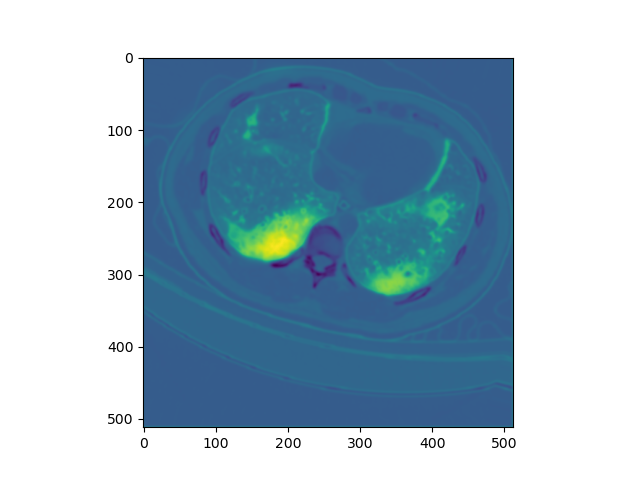
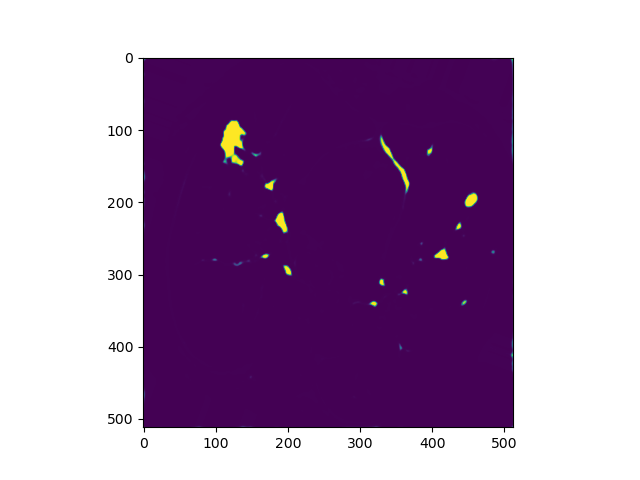
plot preds

diff --git a/main.py b/main.py
@@ -7,6 +7,7 @@ from pytorch_lightning import Trainer
 from pytorch_lightning.callbacks import LearningRateMonitor, ModelCheckpoint
 
 import matplotlib.pyplot as plt
+import torch.nn as nn
 
 if __name__ == "__main__":
     lr_monitor = LearningRateMonitor(logging_interval='epoch')
@@ -18,7 +19,7 @@ if __name__ == "__main__":
 
     trainer = Trainer(
         accelerator="gpu",
-        max_epochs=1,
+        max_epochs=10,
         callbacks=[lr_monitor, checkpoint_callback],
         logger=logger,
         log_every_n_steps=1
@@ -29,7 +30,14 @@ if __name__ == "__main__":
         datamodule=Images(batch_size=2)
     )
 
-    predictions = trainer.predict(dataloaders=Images(batch_size=1))
+    samples, predictions = trainer.predict(dataloaders=Images(batch_size=1), ckpt_path='best')
 
-    plt.imshow(predictions[0][0,1,:,:])
+    print(predictions[0].shape)
+
+    fig, axes = plt.subplots(1, 2)
+
+    axes[0].imshow(samples[0][0,0,:,:])
+    axes[1].imshow(nn.Sigmoid()(predictions[0][0,1,:,:]))
+
     plt.savefig('pred.png')
+

diff --git a/Models/Training.py b/Models/Training.py
@@ -30,7 +30,7 @@ class UNet_Train(LightningModule):
         self._common_step(batch, batch_idx, "val")
 
     def predict_step(self, batch, batch_idx, dataloader_idx=0):
-        return self.forward(batch['image'])
+        return batch['image'], self.forward(batch['image'])
 
     def configure_optimizers(self):
         #set optimizer
